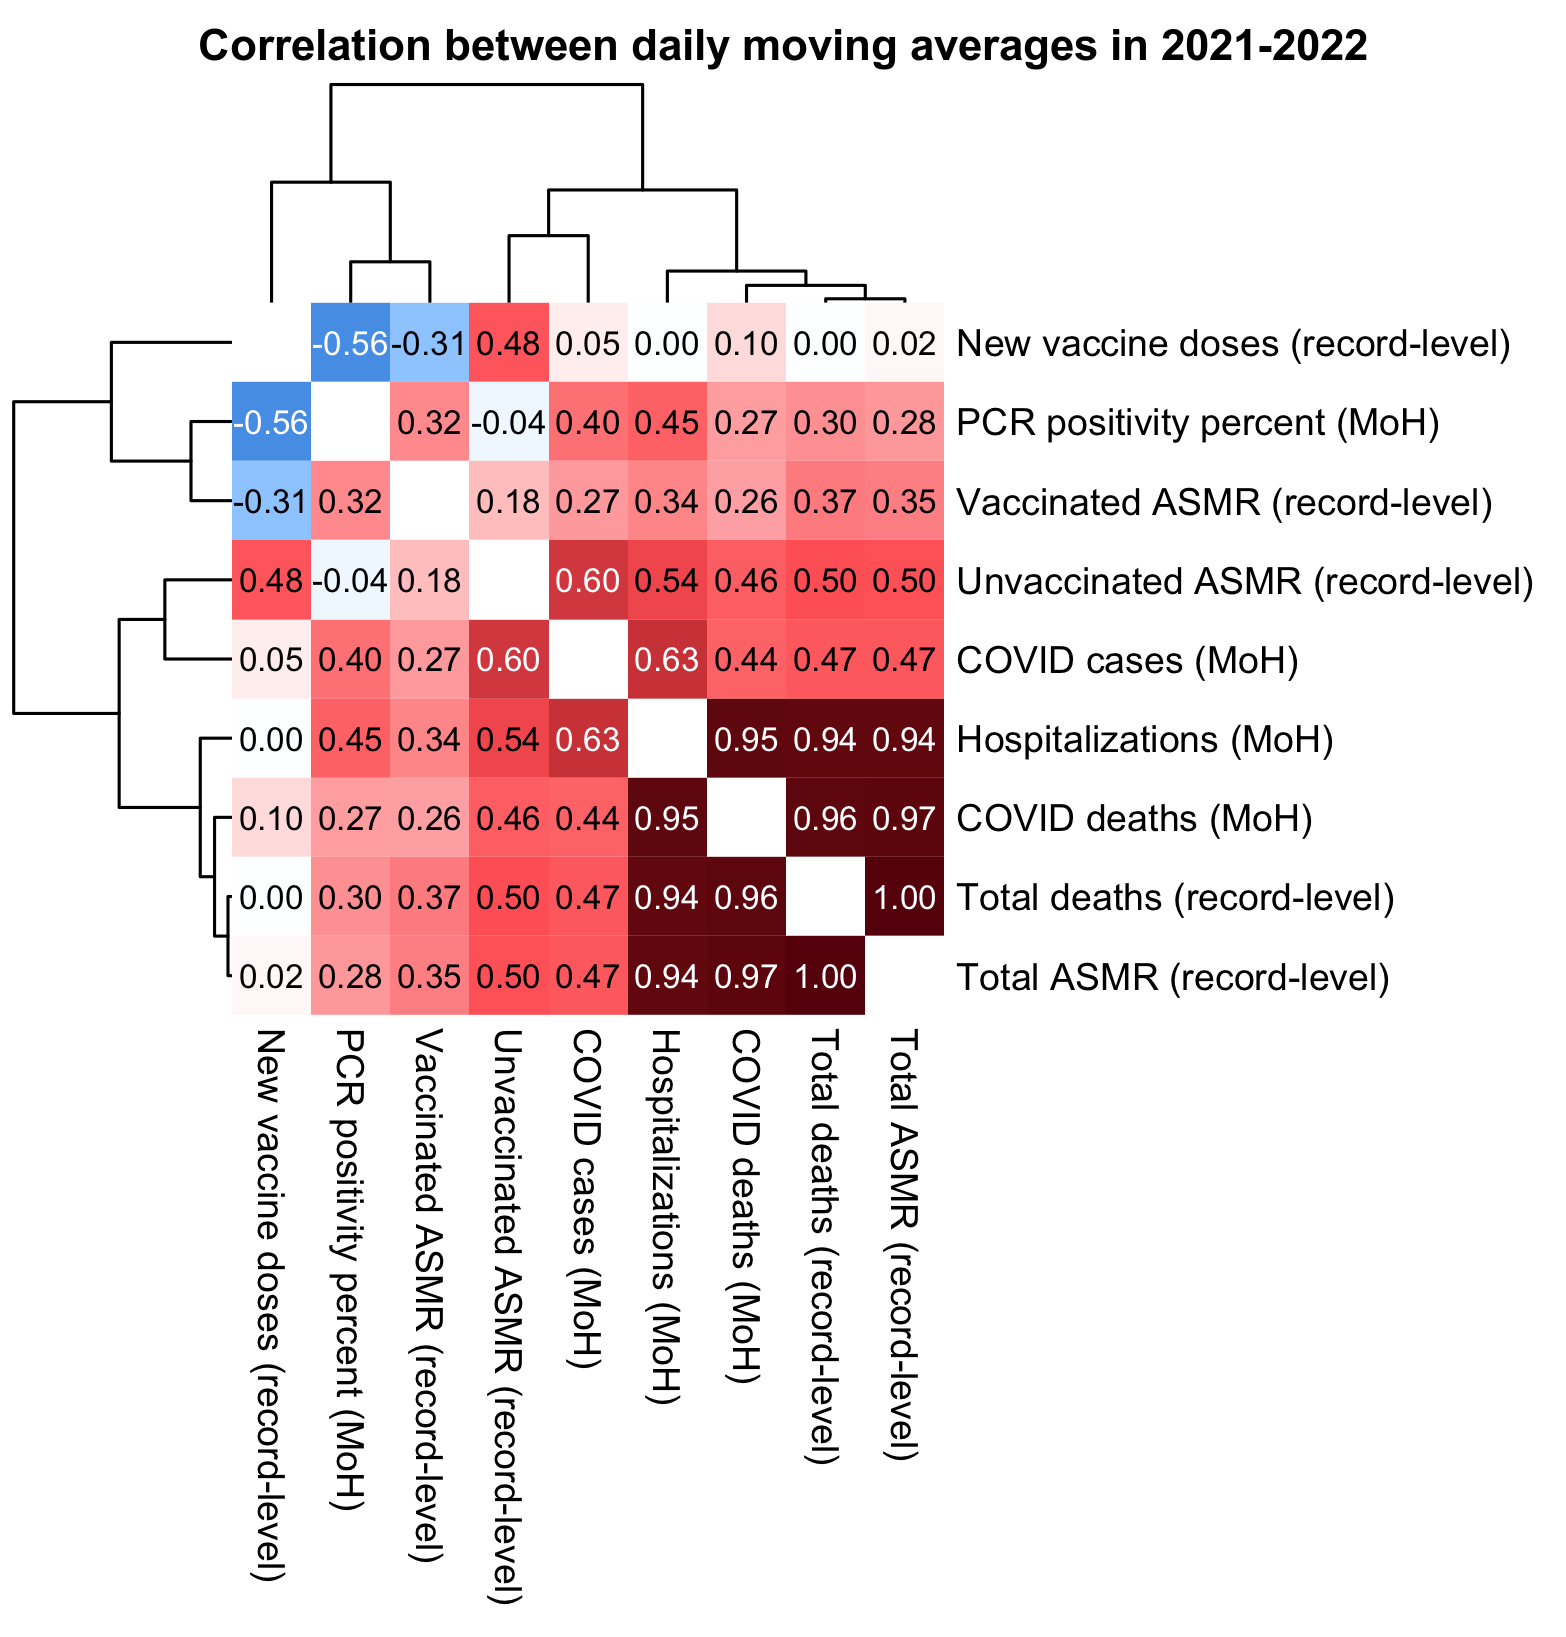
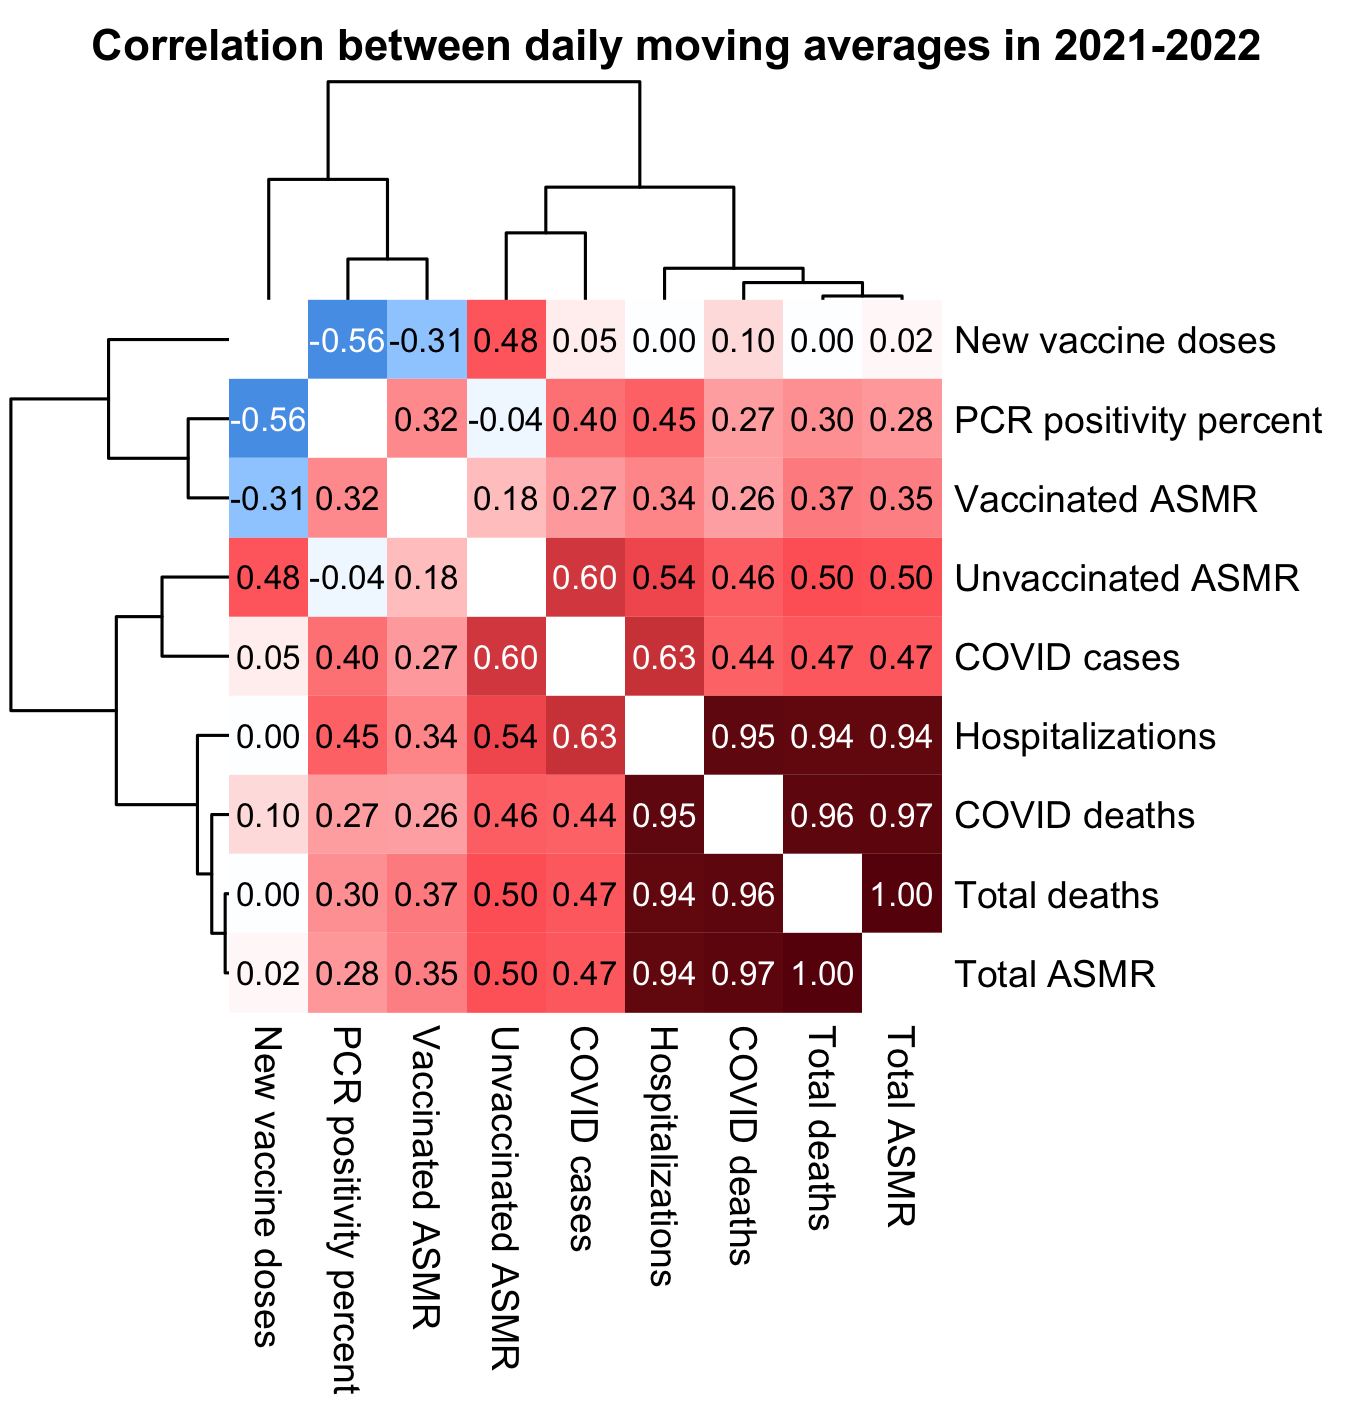
a

diff --git a/czech.html b/czech.html
@@ -85,7 +85,7 @@ blockquote blockquote blockquote,blockquote blockquote .quote,blockquote .quote 
 <li><a href=#Moderna_Pfizer_ratio_in_ages_70_79_in_the_fourth_quarter_of_2021>Moderna-Pfizer ratio in ages 70-79 in the fourth quarter of 2021</a></li>
 <li><a href=#Triangle_plot_of_Moderna_Pfizer_ratio>Triangle plot of Moderna-Pfizer ratio</a></li>
 <li><a href=#Stacked_plot_of_multiple_variables_from_record_level_data_and_Czech_MoH_data>Stacked plot of multiple variables from record-level data and Czech MoH data</a></li>
-<li><a href=#Correlation_coefficients_between_variables_from_record_level_data_and_Czech_MoH_data>Correlation coefficients between variables from record-level data and Czech MoH data</a></li>
+<li><a href=#Correlation_between_variables_from_record_level_data_and_Czech_MoH_data>Correlation between variables from record-level data and Czech MoH data</a></li>
 <li><a href=#Excess_mortality_by_weeks_after_vaccination>Excess mortality by weeks after vaccination</a></li>
 <li><a href=#Excess_CMR_percent_in_vaccinated_people_relative_to_unvaccinated_people>Excess CMR percent in vaccinated people relative to unvaccinated people</a></li>
 <li><a href=#Statistics_by_batch>Statistics by batch</a></li>
@@ -1322,7 +1322,7 @@ ma=\(x,b=1,f=b)setNames(rowMeans(embed(c(rep(NA,b),x,rep(NA,f)),f+b+1),na.rm=T),
 ua=\(x,y,...){u=unique(x);y(u,...)[match(x,u)]}
 age=\(x,y){x=as.numeric(x);y=as.numeric(y);(y-x-(y-789)%/%1461+(x-789)%/%1461)%/%365}
 
-agecut=\(x,ages=seq(0,90,10))cut(pmax(x,0),c(ages,Inf),paste0(ages,c(paste0(&quot;-&quot;,ages[-1]-1),&quot;+&quot;)),T,F)
+agecut=\(x,y)cut(pmax(x,0),c(y,Inf),paste0(y,c(paste0(&quot;-&quot;,y[-1]-1),&quot;+&quot;)),T,F)
 # ages=c(0,12,18,30,40,60,85)
 ages=0:4*20
 agelev=agecut(0:120,ages)
@@ -1564,7 +1564,7 @@ month      0 10 20 30 40 50 60 70 80 90 100 Total
 </div>
 <p>In January 2022 the percentage of vaccinated people was about 3% in ages 0-11 and about 43% in ages 12-15:</p>
 <pre>&gt; b=fread(&quot;http://sars2.net/f/czbucketskeep.csv.gz&quot;)[dose&lt;=1]
-&gt; agecut=\(x,ages=0:9*10)cut(pmax(x,0),c(ages,Inf),paste0(ages,c(paste0(&quot;-&quot;,ages[-1]-1),&quot;+&quot;)),T,F)
+&gt; agecut=\(x,y)cut(pmax(x,0),c(y,Inf),paste0(y,c(paste0(&quot;-&quot;,y[-1]-1),&quot;+&quot;)),T,F)
 &gt; ages=c(0,12,16,18,30,40,60,85)
 &gt; b[month==&quot;2022-01&quot;,.(alive=sum(alive)),.(age=agecut(age,ages),dose)][,.(vaxpct=round(sum(alive[dose==1])/sum(alive)*100)),age]|&gt;print(r=F)
    age vaxpct
@@ -1831,14 +1831,14 @@ theme(axis.text=element_text(size=7,color=&quot;black&quot;),
   strip.text=element_blank())
 ggsave(&quot;1.png&quot;,width=3.3,height=4.7,dpi=450)</pre>
 <h2>
-<a href=#Correlation_coefficients_between_variables_from_record_level_data_and_Czech_MoH_data id=Correlation_coefficients_between_variables_from_record_level_data_and_Czech_MoH_data>Correlation coefficients between variables from record-level data and Czech MoH data</a>
+<a href=#Correlation_between_variables_from_record_level_data_and_Czech_MoH_data id=Correlation_between_variables_from_record_level_data_and_Czech_MoH_data>Correlation between variables from record-level data and Czech MoH data</a>
 </h2>
 <p>The plot below shows a daily correlation of the ±10-day moving averages for different daily variables in 2021 to 2022. The correlation between new vaccine doses and deaths is around zero. But the correlation between COVID hospitalizations and all-cause deaths is about 0.94. So if a large part of the excess deaths were caused by vaccines, then why were the deaths concentrated during distinct periods of time that also had a high number of hospitalizations for COVID?</p>
-<div class="width6">
+<div class="width5">
 <img src="i/czech-cor.png">
 </div>
-<p>In the plot above PCR positivity rate gets an unusually poor correlation with all-cause deaths, but it's because half of the data is in 2022 when there's high PCR positivity but low mortality (which is the typical pattern in the Omicron era all over the world). However the correlation between PCR positivity and total deaths increased from about 0.30 to about 0.45 when I looked at data from 2020-2022 instead, and it further increased to about 0.94 when I looked at data from 2020-2021:</p>
-<div class="width12">
+<p>In the plot above PCR positivity rate gets an unusually poor correlation with all-cause deaths, but it's because half of the data is from 2022, and in 2022 there was high PCR positivity but low mortality (which is the typical pattern in the Omicron era all over the world). However the correlation between PCR positivity and total deaths increased from about 0.30 to about 0.45 when I looked at data from 2020-2022 instead, and it further increased to about 0.94 when I looked at data from 2020-2021:</p>
+<div class="width10">
 <img src="i/czech-cor-2.png">
 </div>
 <pre>download.file(&quot;https://onemocneni-aktualne.mzcr.cz/api/v2/covid-19/nakazeni-hospitalizace-testy.csv&quot;,&quot;nakazeni-hospitalizace-testy.csv&quot;)
@@ -2045,40 +2045,42 @@ for(day in as.list(seq(mindate,maxdate,1))){
 setorder(buck,month,vaxmonth,week,age,dose,type,batch)
 fwrite(buck,&quot;czbucketsbatchkeep.csv&quot;,quote=F)</pre>
 <p>I uploaded the output here: <a href=f/czbucketsbatchkeep.csv.xz>f/czbucketsbatchkeep.csv.xz</a> (about 40 MiB). In the output people are kept under earlier doses even after a new dose. Batches with less than 100 doses are shown under the batch name <span class="quote">&quot;Other&quot;</span>. Vaccines from manufacturers with less than 1000 total doses are shown under <span class="quote">&quot;Other&quot;</span>. In the earlier buckets files I classified Pfizer's Omicron vaccines under the <span class="quote">&quot;Other&quot;</span> type but now I'm classifying them under Pfizer instead.</p>
-<p>The plot below shows statistics for people who got a first dose from a Pfizer vaccine. Generally batches that have a later mean day of vaccination seem to have higher excess mortality. On the row for the mean date of vaccination, January 1st 2021 is day zero. The only batch with a negative mean date is EJ6796, which has a mean date of -3 which means December 29th 2020 (but that batch also has fairly high excess deaths of about 24%, which might be if vulnerable groups of people were priorized to be vaccinated earliest). There's 15 batches with more than 15 doses given but all of the batches got below -10% excess mortality:</p>
+<p>The plot below shows statistics for people who got a first dose from a Pfizer vaccine. Generally batches that have a later mean day of vaccination seem to have higher excess mortality. On the row for the mean date of vaccination, January 1st 2021 is day zero. The only batch with a negative mean date is EJ6796, which has a mean date of -3 which means December 29th 2020 (but that batch also has fairly high excess deaths of about 24%, which might be if vulnerable groups of people were priorized to be vaccinated earliest). There's 15 batches with more than 100,000 doses given but all of the batches got below -10% excess mortality:</p>
 <div class="width11">
 <img src="i/czech-batch.png">
 </div>
 <p>In the plot above when I calculated ASMR by single year of age, the batch FA7082 got an ASMR of about 18,000 deaths per 100,000 person-years. However that's because the age 89 had one death but only 4 person-days in the batch, and age 89 made up about 0.19% of my standard population, so the single death added about 18,000 units to the total ASMR value (from <code>1/4*.0019*365e5</code>):</p>
 <pre>&gt; std=fread(&quot;http://sars2.net/f/czcensus2021pop.csv&quot;)[,pop/sum(pop)]
 &gt; system(&quot;curl -LsO sars2.net/f/czbucketsbatchkeep.csv.xz&quot;)
-&gt; b=fread(&quot;xz -dc czbucketsbatchkeep.csv.xz&quot;)[dose==1]
+&gt; b=fread(&quot;xz -dc s/f/czbucketsbatchkeep.csv.xz&quot;)[dose==1]
 &gt; d=b[batch==&quot;FA7082&quot;,.(dead=sum(dead),alive=sum(alive)),.(age=pmin(age,100))][,asmr:=dead/alive*std[age+1]*365e5]
-&gt; print(round(d[dead&gt;0]),r=F) # show all ages with nonzero deaths
- age dead alive  asmr
-  44    1 26242    24
-  63    1  9983    46
-  67    1  7239    63
-  71    1  5326    80
-  77    1  4457    69
-  79    1  2326   102
-  82    1  2407    68
-  83    1  1701    85
-  86    1  1685    62
-  89    1     4 17790</pre>
+&gt; print(d[dead&gt;0],r=F) # show all ages with nonzero deaths
+ age dead alive        asmr
+  44    1 26242    24.08040
+  63    1  9983    46.04660
+  67    1  7239    63.44008
+  71    1  5326    80.26433
+  77    1  4457    69.38750
+  79    1  2326   101.98112
+  82    1  2407    67.61925
+  83    1  1701    84.76822
+  86    1  1685    62.20545
+  89    1     4 17790.17285</pre>
 <p>But when I calculated the ASMR by 5-year age groups instead, ages 85-89 now had 2 deaths and 5,000 person-days, so ages 85-89 added only about 188 units to the total ASMR value:</p>
-<pre>&gt; std2=tapply(std,0:100%/%5*5,sum)
-&gt; d2=b[batch==&quot;FA7082&quot;,.(dead=sum(dead),alive=sum(alive)),.(age=pmin(age,100)%/%5*5)][,asmr:=dead/alive*std2[age/5+1]*365e5]
-&gt; print(round(d2[dead&gt;0]),r=F)
- age dead  alive asmr
-  40    1 108333   27
-  60    1  42891   50
-  65    1  30224   77
-  70    1  25299   85
-  75    2  20774  140
-  80    2  11081  152
-  85    2   5000  188</pre>
-<p>However even if you calculate ASMR using 5-year age groups instead of single year of age, there can still occasionally be one age group which has nonzero deaths and a tiny population size, which can artificially inflate the total ASMR value. ASMR is suitable for populations where all age groups always have a large number of people, like the total population of an entire nation. But in cases like these batch statistics where some age groups can have a small population size, the method I used to calculate the excess percentage of deaths in my plot above is more reliable than ASMR.</p>
+<pre>&gt; agecut=\(x,y)cut(x,c(y,Inf),paste0(y,c(paste0(&quot;-&quot;,y[-1]-1),&quot;+&quot;)),T,F)
+&gt; ages=0:19*5
+&gt; std2=tapply(std,agecut(0:100,ages),sum)
+&gt; d2=b[batch==&quot;FA7082&quot;,.(dead=sum(dead),alive=sum(alive)),.(age=agecut(age,ages))][,asmr:=dead/alive*std2[age]*365e5]
+&gt; print(d2[dead&gt;0],r=F) # show all ages with nonzero deaths
+   age dead  alive      asmr
+ 40-44    1 108333  27.46563
+ 60-64    1  42891  49.85952
+ 65-69    1  30224  76.66238
+ 70-74    1  25299  84.80707
+ 75-79    2  20774 140.02652
+ 80-84    2  11081 152.34513
+ 85-89    2   5000 187.71468</pre>
+<p>However even if you calculate ASMR using 5-year age groups instead of single year of age, there can still occasionally be one age group which has nonzero deaths and a tiny population size, which can artificially inflate the total ASMR value. ASMR is suitable for populations where all age groups always have a large number of people, like the total population of an entire nation. But in cases like these batch statistics where some age groups can have a small population size, the method I used to calculate the excess percentage of deaths in my plot above is often more reliable than ASMR.</p>
 <p>Here's code for making the heatmap:</p>
 <pre>download.file(&quot;http://sars2.net/f/czbucketsbatchkeep.csv.xz&quot;,&quot;czbucketsbatchkeep.csv.xz&quot;)
 
